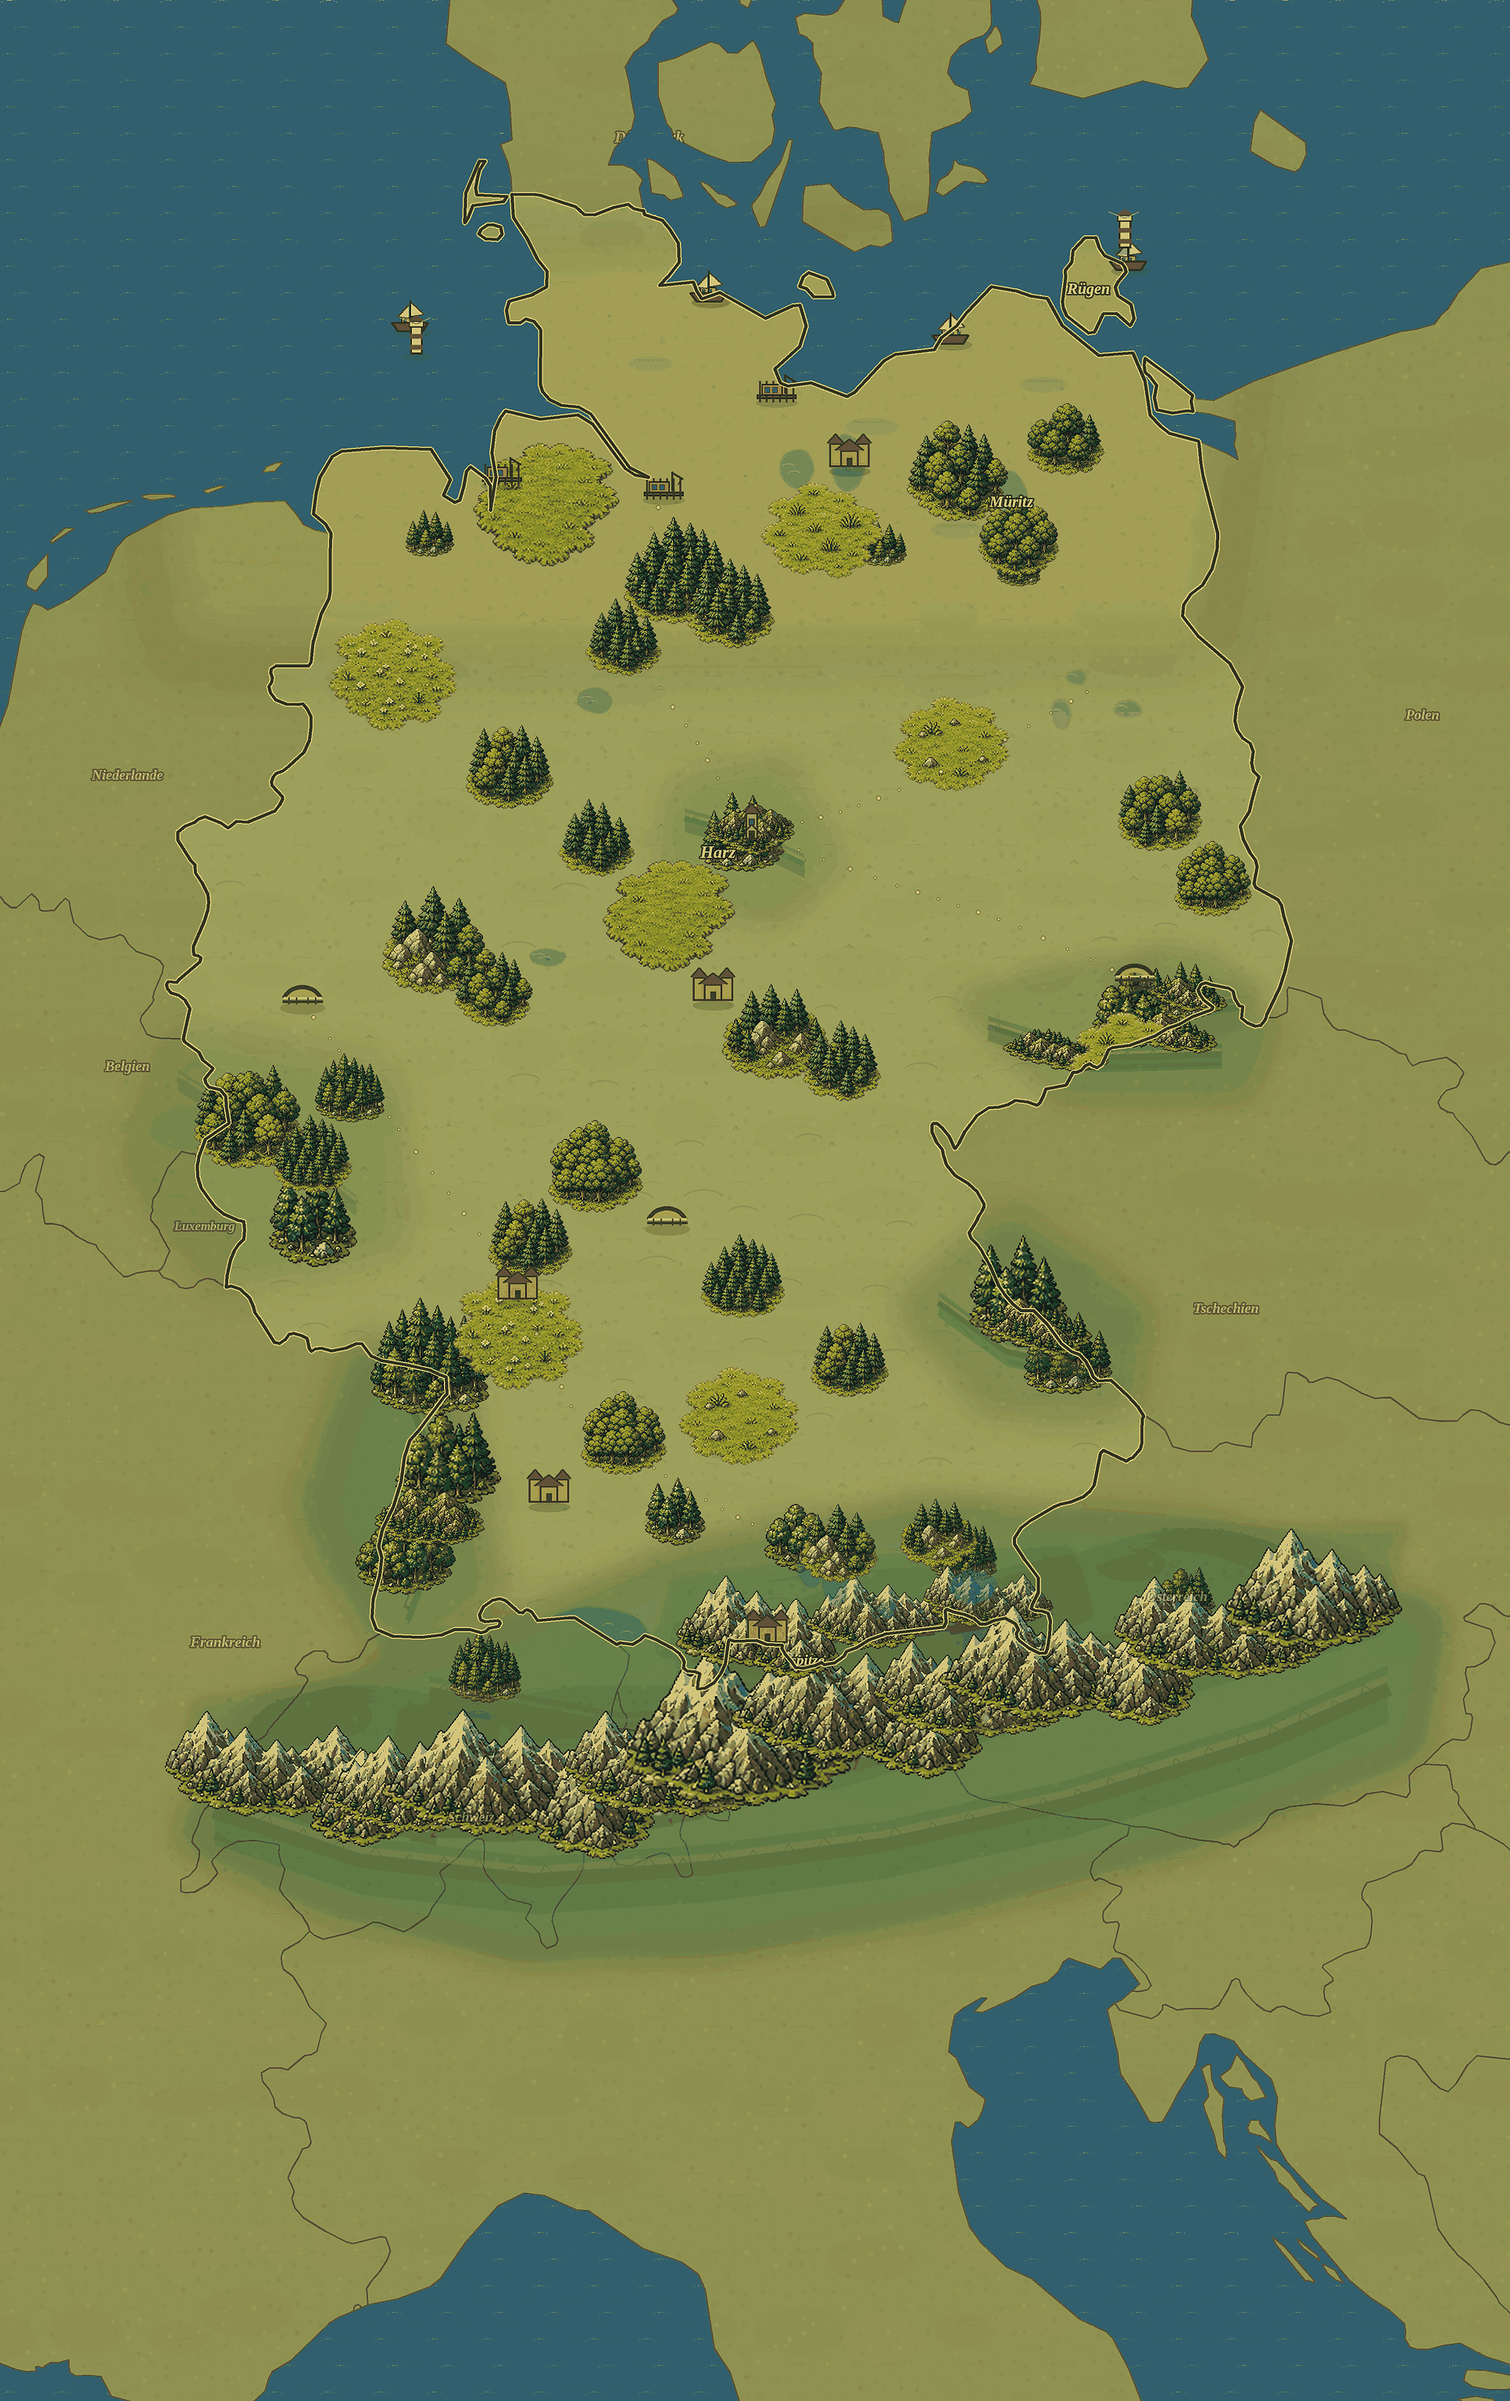
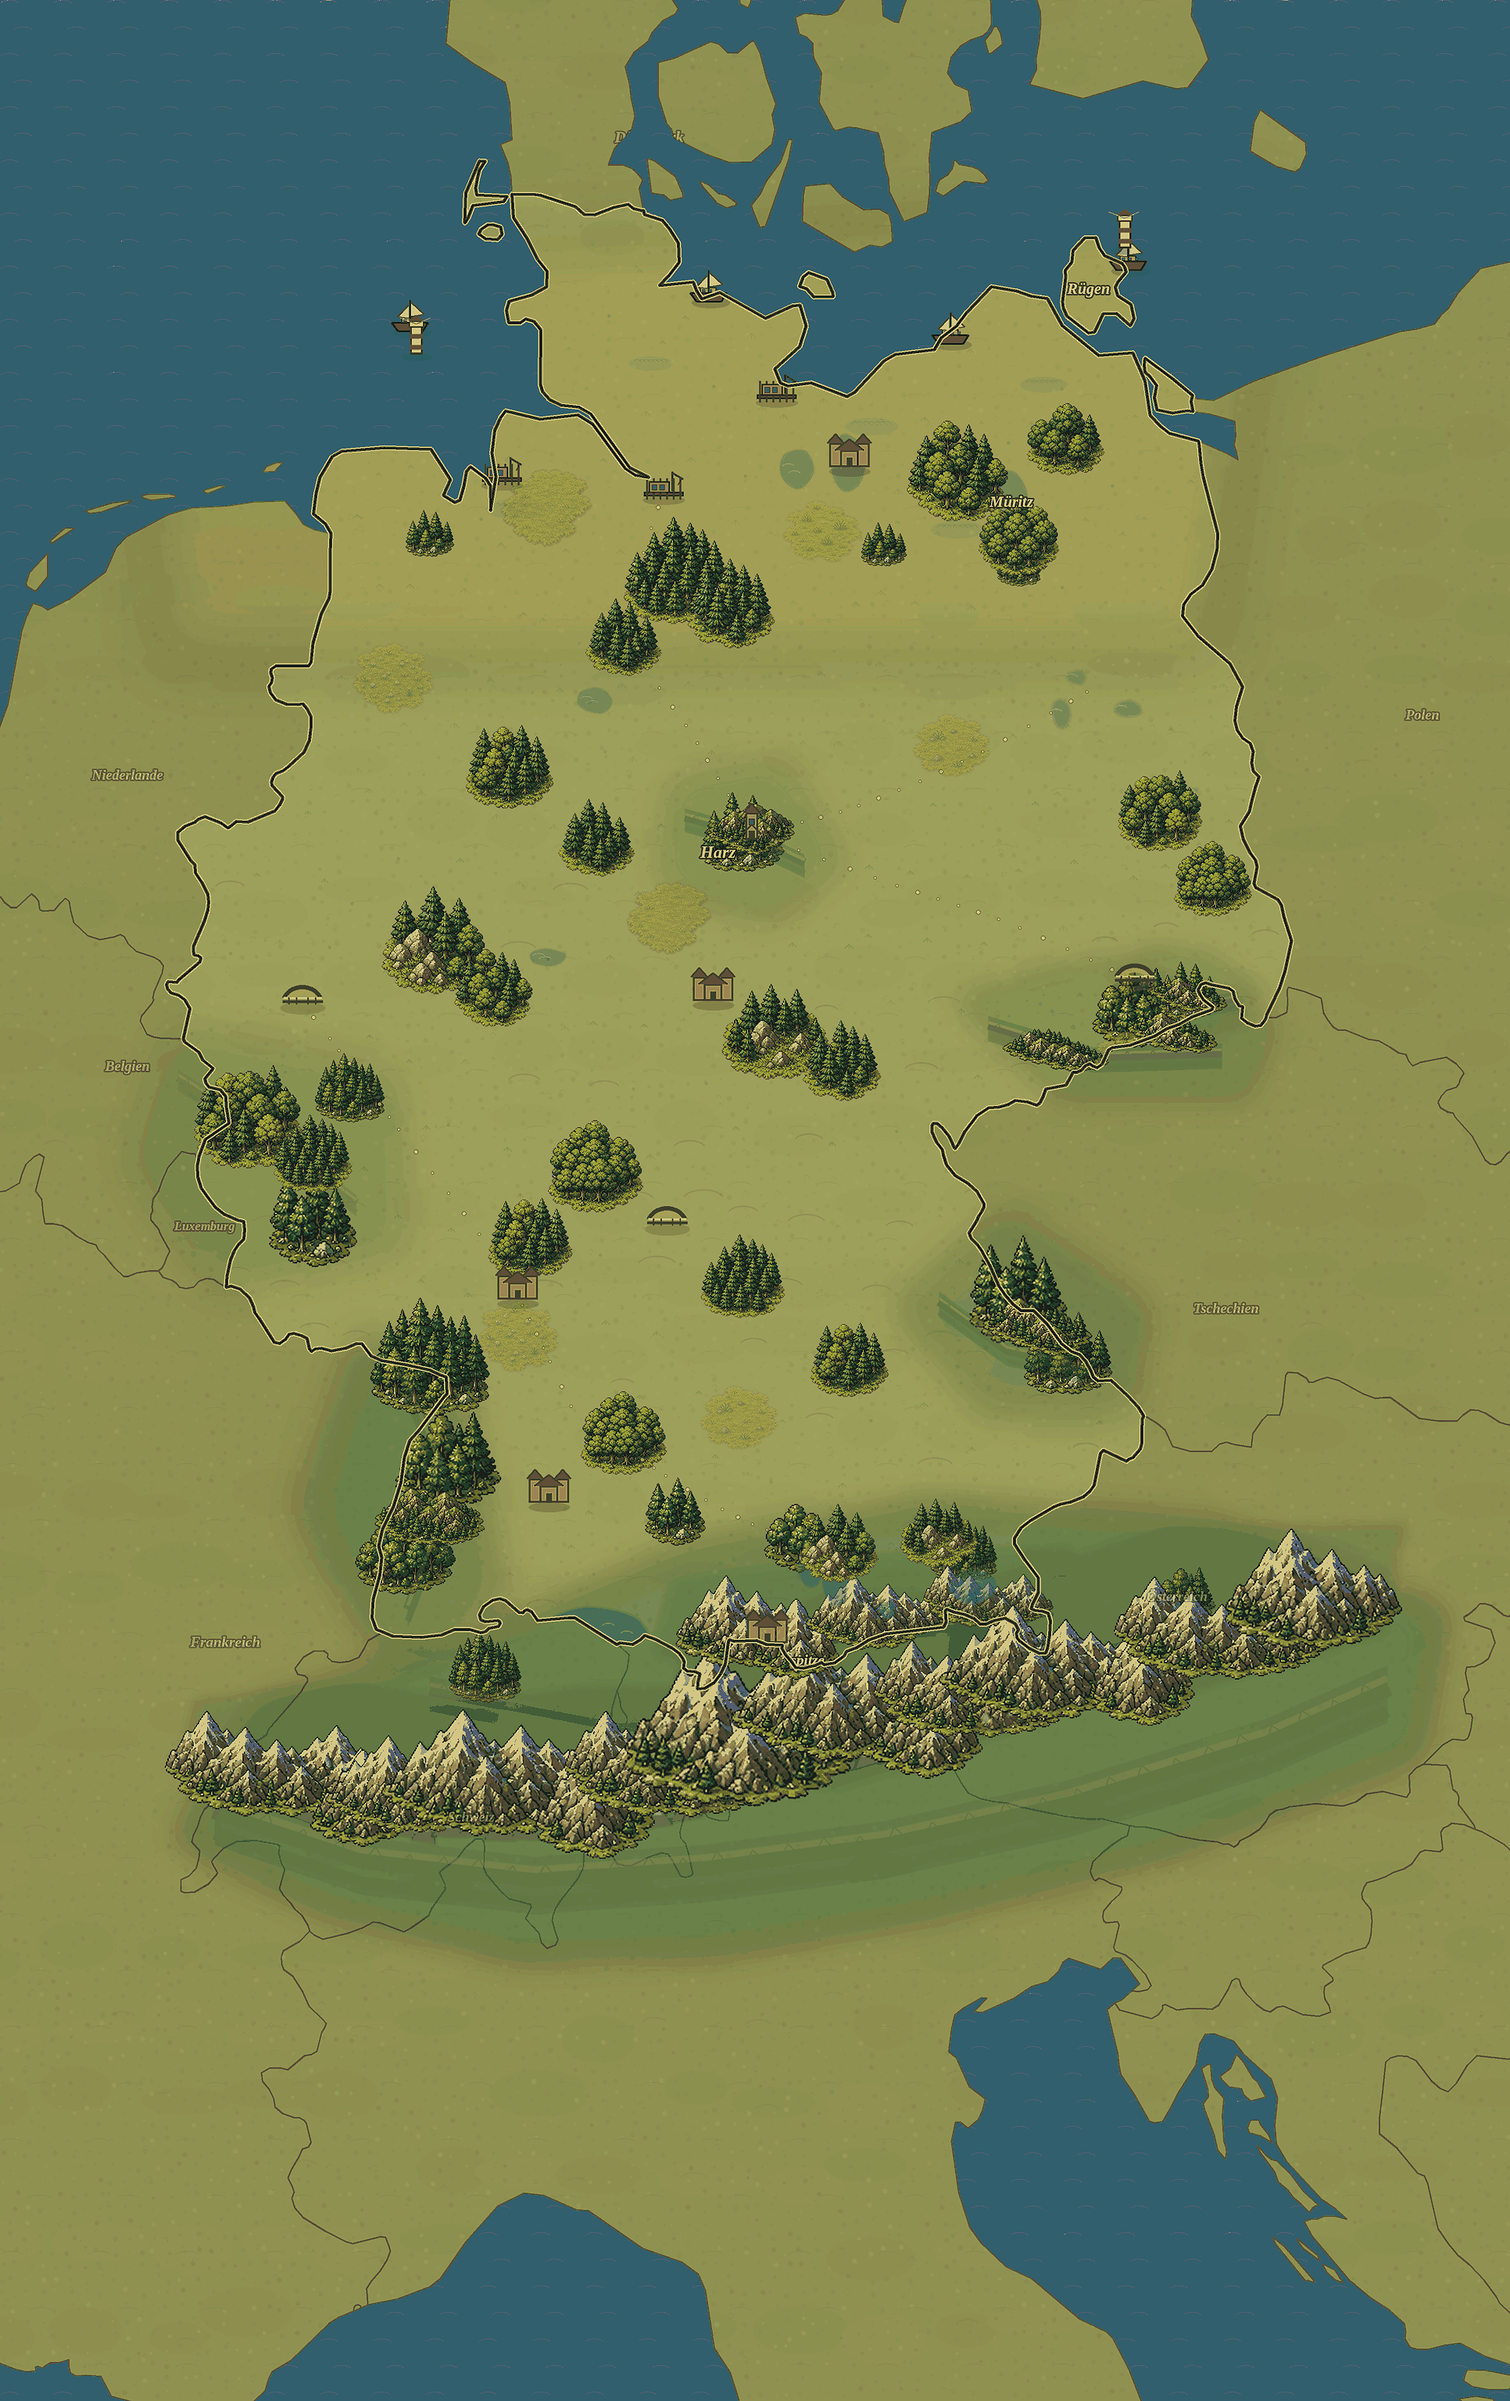
Blend atlas land detail patches

diff --git a/map_pipeline/compose_map.py b/map_pipeline/compose_map.py
@@ -41,6 +41,9 @@ GLYPH_CACHE = {}
 FONT_CACHE = {}
 FOREST_MASS_VISUAL_SCALE = 1.32
 FOREST_MASS_MIN_WIDTH = 112
+LAND_DETAIL_VISUAL_SCALE = 0.74
+LAND_DETAIL_ALPHA_SCALE = 0.48
+LAND_DETAIL_TINT_STRENGTH = 0.28
 EXPORT_MASSIF_SOURCE_LAYERS = True
 MASSIF_SOURCE_MANIFEST = []
 
@@ -551,14 +554,14 @@ ATLAS_FOREST_MASSES = [
 ]
 
 ATLAS_LAND_DETAIL_PATCHES = [
-    ("atlas_land_grass_patch", 8.95, 53.38, 210),
-    ("atlas_land_tuft_patch", 11.20, 53.28, 178),
-    ("atlas_land_flower_meadow", 7.70, 52.54, 184),
-    ("atlas_land_rocky_meadow", 12.25, 52.22, 168),
-    ("atlas_land_grass_patch", 9.95, 51.34, 190),
-    ("atlas_land_tuft_patch", 13.72, 50.62, 180),
-    ("atlas_land_flower_meadow", 8.72, 49.16, 188),
-    ("atlas_land_rocky_meadow", 10.52, 48.74, 174),
+    ("atlas_land_grass_patch", 8.95, 53.38, 176),
+    ("atlas_land_tuft_patch", 11.20, 53.28, 154),
+    ("atlas_land_flower_meadow", 7.70, 52.54, 156),
+    ("atlas_land_rocky_meadow", 12.25, 52.22, 150),
+    ("atlas_land_grass_patch", 9.95, 51.34, 164),
+    ("atlas_land_tuft_patch", 13.72, 50.62, 154),
+    ("atlas_land_flower_meadow", 8.72, 49.16, 158),
+    ("atlas_land_rocky_meadow", 10.52, 48.74, 152),
 ]
 
 ATLAS_DETAIL_KIND_SCALE = {
@@ -1174,10 +1177,25 @@ def _draw_atlas_forest_masses(canvas, proj, land_mask):
 def _draw_atlas_land_detail_patches(canvas, proj, germany_mask):
     layer = Image.new("RGBA", canvas.size, (0, 0, 0, 0))
     for glyph_name, lon, lat, width in ATLAS_LAND_DETAIL_PATCHES:
-        _draw_glyph_center(layer, proj, glyph_name, lon, lat, width)
+        _draw_glyph_center(layer, proj, glyph_name, lon, lat, width * LAND_DETAIL_VISUAL_SCALE)
+    layer = _blend_land_detail_layer(layer)
     alpha = Image.composite(layer.getchannel("A"), Image.new("L", canvas.size, 0), germany_mask)
     layer.putalpha(alpha)
     canvas.alpha_composite(layer)
+
+
+def _blend_land_detail_layer(layer):
+    alpha = layer.getchannel("A")
+    alpha = alpha.filter(ImageFilter.GaussianBlur(0.9 * RENDER_SCALE))
+    alpha = alpha.point(lambda value: int(value * LAND_DETAIL_ALPHA_SCALE))
+    tinted_rgb = Image.blend(
+        layer.convert("RGB"),
+        Image.new("RGB", layer.size, (151, 154, 86)),
+        LAND_DETAIL_TINT_STRENGTH,
+    )
+    blended = tinted_rgb.convert("RGBA")
+    blended.putalpha(alpha)
+    return blended
 
 
 def _stable_hash(*values) -> int:

diff --git a/tests/test_map_panel_contract.py b/tests/test_map_panel_contract.py
@@ -449,6 +449,9 @@ class MapPanelContractTest(unittest.TestCase):
             "ATLAS_FOREST_MASSES = [",
             "FOREST_MASS_VISUAL_SCALE = 1.32",
             "FOREST_MASS_MIN_WIDTH = 112",
+            "LAND_DETAIL_VISUAL_SCALE = 0.74",
+            "LAND_DETAIL_ALPHA_SCALE = 0.48",
+            "LAND_DETAIL_TINT_STRENGTH = 0.28",
             '"atlas_forest_pine_dense"',
             '"atlas_forest_mixed_large"',
             '"atlas_forest_rocky_pine"',
@@ -462,6 +465,11 @@ class MapPanelContractTest(unittest.TestCase):
             "def _draw_atlas_forest_masses(canvas, proj, land_mask):",
             "display_width = max(FOREST_MASS_MIN_WIDTH, int(width * FOREST_MASS_VISUAL_SCALE))",
             "def _draw_atlas_land_detail_patches(canvas, proj, germany_mask):",
+            "def _blend_land_detail_layer(layer):",
+            "_draw_glyph_center(layer, proj, glyph_name, lon, lat, width * LAND_DETAIL_VISUAL_SCALE)",
+            "ImageFilter.GaussianBlur(0.9 * RENDER_SCALE)",
+            "LAND_DETAIL_ALPHA_SCALE",
+            "LAND_DETAIL_TINT_STRENGTH",
             "_draw_atlas_land_detail_patches(canvas, proj, germany_mask)",
             "_draw_atlas_forest_masses(canvas, proj, land_mask)",
             "def _draw_atlas_details(canvas, proj):",

diff --git a/docs/active-map-backlog.md b/docs/active-map-backlog.md
@@ -17,7 +17,8 @@
 - [ ] #66 Follow-up: water texture direction is acceptable, but land texture is still too flat/boring. Re-open the old reference image `/home/alexey/tmp/file_000000000d5c71f4b60ecae32dd4240b.png` and the generated donor map `tmp/map-underlay-source/germany_atlas_underlay_2026-05-31_v2.png`; extract the land pattern direction into reusable procedural/glyph layers instead of returning to a monolithic bitmap.
 - [ ] Восстановить исходную задачу donor-map decomposition: найти удачную цельную карту-донора, сравнить ее trees/land/relief/details с текущим `assets/map/germany_styled.png`, нарезать/перерисовать крупные trees/forest/detail glyphs из этого visual language и заменить текущие мелкие деревья, которые всё ещё выглядят не как в reference.
 - [x] Первый donor-derived terrain/forest glyph pass: сгенерирован один `terrain_forest_sheet.png`, нарезан в 16 `atlas_forest_*` / `atlas_land_*` glyphs через `map_pipeline.slice_terrain_forest_glyphs`, подключен в `ATLAS_FOREST_MASSES` и новый `ATLAS_LAND_DETAIL_PATCHES`.
-- [ ] #66/#67 Follow-up после первого donor-derived pass: grass/meadow patches стали заметнее, но часть из них выглядит отдельными желтыми пятнами; нужно либо приглушить/маскировать края, либо заменить на более органичные land texture glyphs.
+- [x] #66/#67 Follow-up после первого donor-derived pass: grass/meadow patches стали заметнее, но часть из них выглядит отдельными желтыми пятнами; compositor теперь уменьшает land detail scale/alpha, feather-ит alpha и tint-ит glyphs в сторону базовой земли.
+- [ ] #66 Follow-up: текущие land detail patches уже не выглядят как яркие наклейки, но они стали довольно слабым secondary texture. Для `8/10+` нужен следующий hand-authored/pass: больше мелкого warm terrain pattern без отдельных blob-силуэтов.
 - [x] Первый production cut: `map_pipeline.compose_map` больше не рисует baked town/city pictograms в underlay; runtime city landmarks остаются единственным городским слоем.
 - [x] Добавить первый atlas detail layer: reproducible glyphs для ships/ports/bridges/castles/tower + explicit `ATLAS_DETAILS` placement по координатам.
 - [x] Расширить runtime map bounds южнее Германии: можно панорамировать вниз к München/Alps и видеть соседние страны как контурную основу без ручных overlay-глифов.

diff --git a/docs/map-orchestrator-progress.md b/docs/map-orchestrator-progress.md
@@ -1011,3 +1011,31 @@ Checks:
   - `/tmp/cable-world-web-map/desktop-1280x800-initial.png`
 
 Self-audit: about `7.1/10`, still not `8/10`. Forest masses now look much more like real atlas glyphs and less like tiny dots. The weak part is land patches: they add life, but a few read as separate yellow blobs rather than fully integrated terrain. Alps also still need a better per-massif art pass before the map can honestly clear `8/10`.
+
+## Iteration 2026-05-31 21:22
+
+Implemented:
+
+- Softened the new `ATLAS_LAND_DETAIL_PATCHES` layer so it reads as terrain texture instead of pasted yellow blobs.
+- Added explicit compositor controls:
+  - `LAND_DETAIL_VISUAL_SCALE = 0.74`
+  - `LAND_DETAIL_ALPHA_SCALE = 0.48`
+  - `LAND_DETAIL_TINT_STRENGTH = 0.28`
+- Added `_blend_land_detail_layer()`:
+  - feather alpha with `GaussianBlur`;
+  - reduce opacity;
+  - tint land details toward the base land color before compositing.
+- Reduced raw land patch widths in `ATLAS_LAND_DETAIL_PATCHES`.
+
+Checks:
+
+- `uv run python -m map_pipeline.compose_map`: regenerated `assets/map/germany_styled.png`.
+- `python3 -m unittest tests.test_map_panel_contract tests.test_export_payload_contract tests.test_android_export_contract tests.test_map_geography_audit`: 20 tests OK, 2 skipped under plain Python where geo dependencies are unavailable.
+- `uv run python -m unittest tests.test_map_geography_audit tests.test_map_panel_contract tests.test_export_payload_contract`: 15 tests OK.
+- Godot import/export completed; known nested-worktree and adb warnings only.
+- `curl -I --compressed http://127.0.0.1:9000/index.pck`: `Content-Encoding: gzip`, `Content-Length: 5728004`, `Cache-Control: no-store`.
+- Playwright screenshots regenerated:
+  - `/tmp/cable-world-web-map/mobile-390x844-initial.png`
+  - `/tmp/cable-world-web-map/desktop-1280x800-initial.png`
+
+Self-audit: about `7.15/10`, still not `8/10`. This removes the most obvious land-patch sticker effect from the previous pass. The next large visual blocker is still Alpine/per-massif art: the mountain wall is useful, but not yet recognizable or controlled enough for a `10/10` atlas map.
